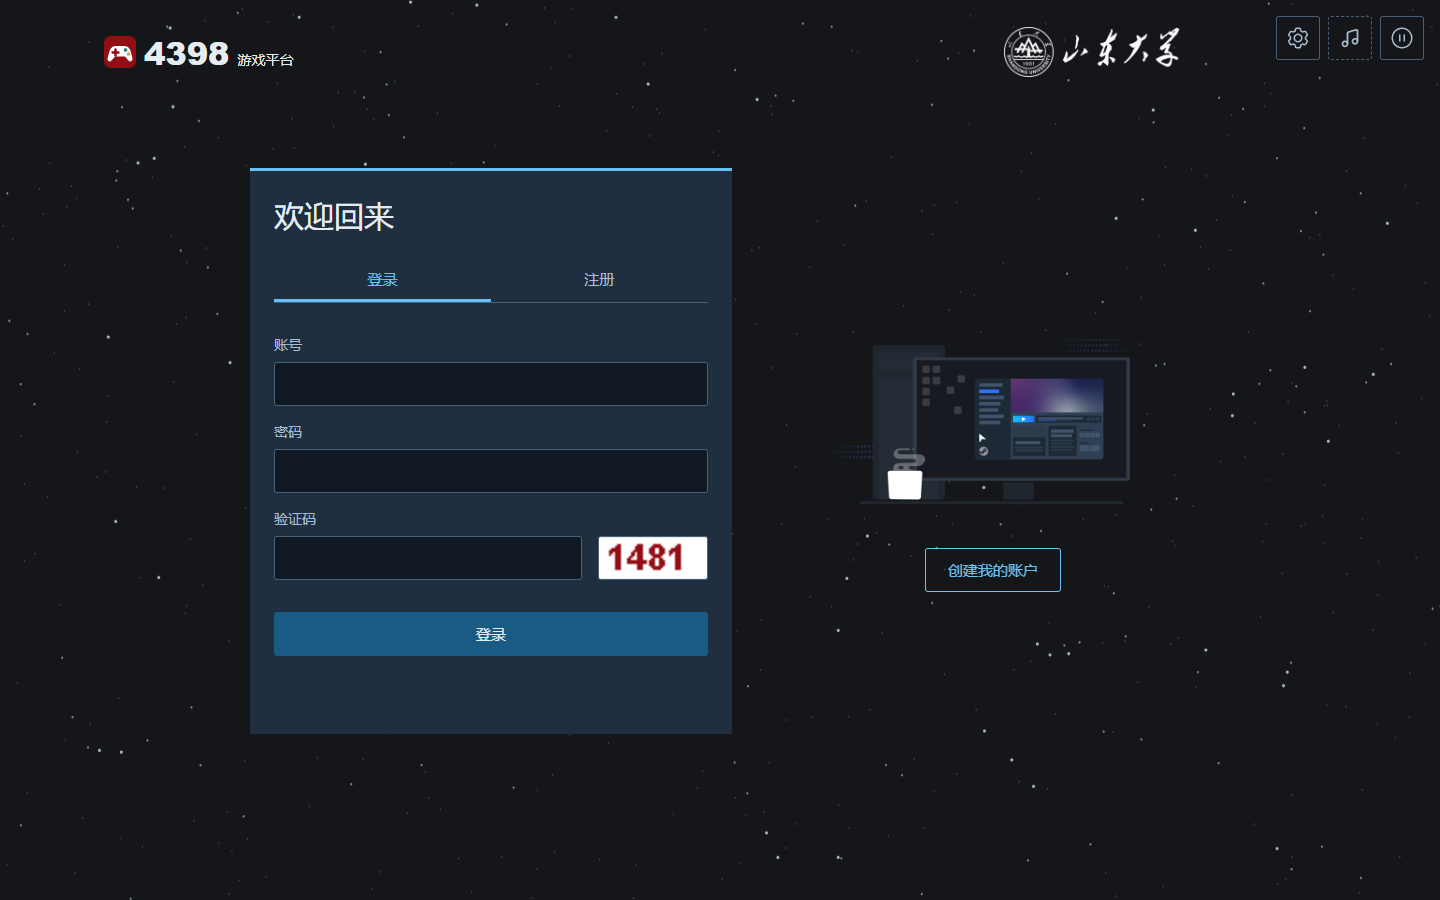
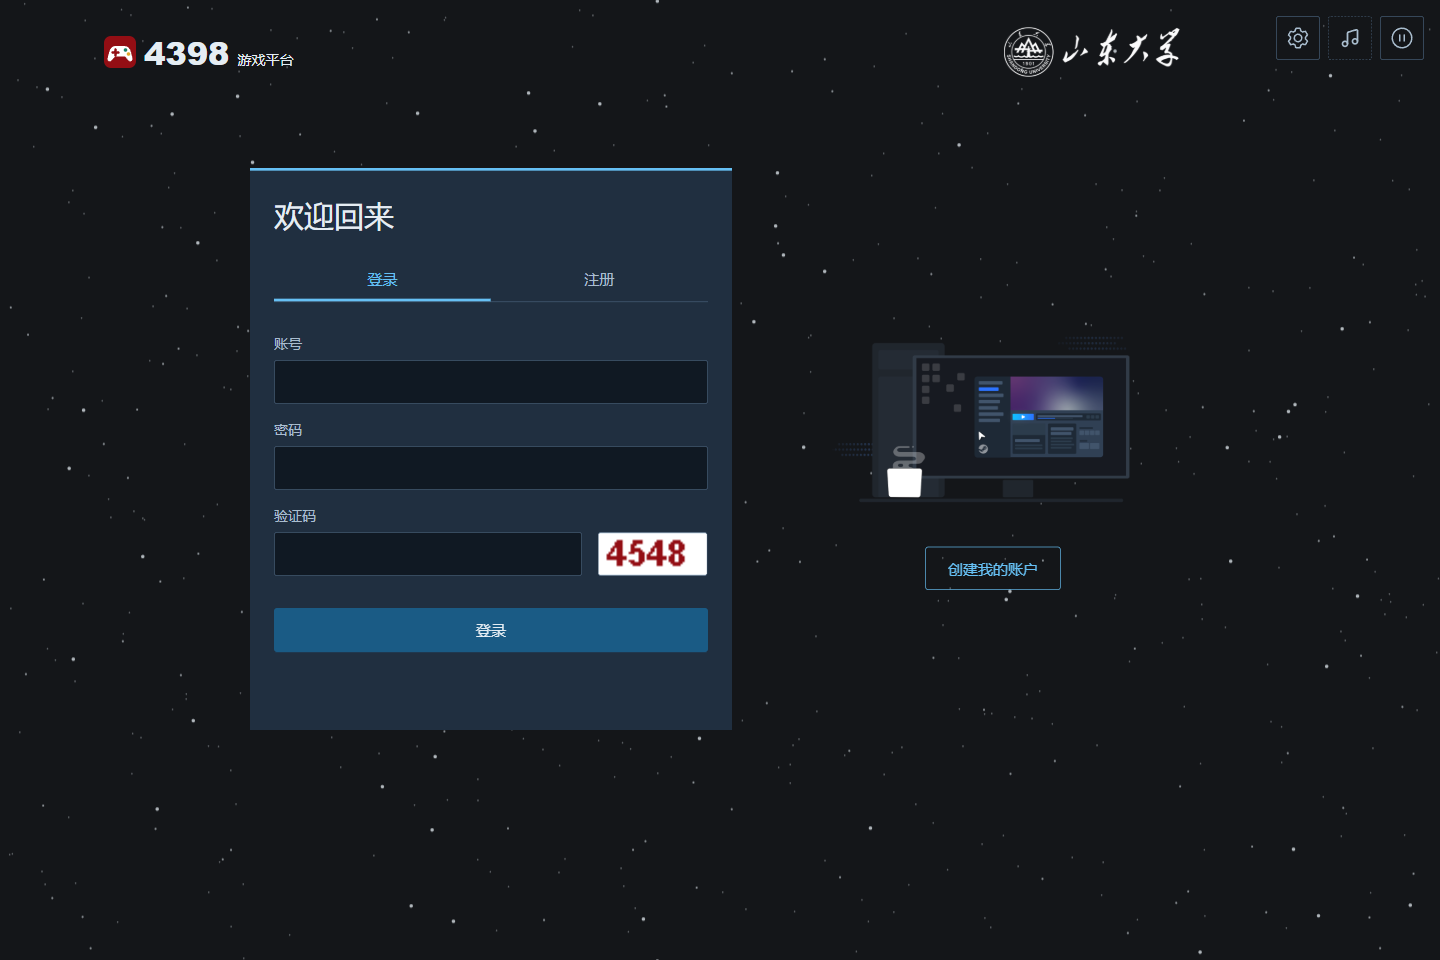
modified:   README.md 	modified:   docs/images/dashboard.png 	new file:   docs/images/editor.png 	new file:   docs/images/feedback.png 	new file:   docs/images/game.png 	new file:   docs/images/library.png 	new file:   docs/images/login-settings.png 	modified:   docs/images/login.png 	new file:   do

diff --git a/web-vue/src/styles/cursor.css b/web-vue/src/styles/cursor.css
@@ -1,0 +1,105 @@
+/* 平台与游戏运行页共用指针，画布通过自身交互状态切换形状 */
+html,
+body {
+  cursor: var(--cursor-default);
+}
+button,
+a[href],
+summary,
+select,
+label[for],
+label:has(input[type="checkbox"]),
+label:has(input[type="radio"]),
+input[type="button"],
+input[type="submit"],
+input[type="reset"],
+input[type="checkbox"],
+input[type="radio"],
+input[type="range"],
+[role="button"],
+[role="link"],
+[role="tab"],
+[role="menuitem"] {
+  cursor: var(--cursor-link);
+}
+input:not([type="button"]):not([type="submit"]):not([type="reset"]):not(
+    [type="checkbox"]
+  ):not([type="radio"]):not([type="range"]),
+textarea,
+[contenteditable="true"] {
+  cursor: text;
+}
+/* 组件自身声明的指针在弹窗挂到页面根部后仍沿用平台主题 */
+.el-button,
+.el-message-box__headerbtn,
+.el-message__closeBtn,
+.el-notification__closeBtn {
+  cursor: var(--cursor-link) !important;
+}
+/* 图表和 Java 运行环境会直接写入行内样式，按原交互类型映射主题指针 */
+[style*="cursor: default"],
+[style*="cursor:default"],
+[style*="cursor: auto"],
+[style*="cursor:auto"] {
+  cursor: var(--cursor-default) !important;
+}
+[style*="cursor: pointer"],
+[style*="cursor:pointer"] {
+  cursor: var(--cursor-link) !important;
+}
+/* 禁用控件和内部图标共用禁用提示，鼠标停在图标上时状态保持一致 */
+button:disabled,
+input:disabled,
+select:disabled,
+textarea:disabled,
+[aria-disabled="true"],
+.el-button.is-disabled,
+button:disabled *,
+[aria-disabled="true"] *,
+.el-button.is-disabled * {
+  cursor: not-allowed !important;
+}
+/* 滑块把手使用点击手形，轨道和把手沿用同一操作提示 */
+input[type="range"]::-webkit-slider-thumb {
+  cursor: var(--cursor-link);
+}
+input[type="range"]::-moz-range-thumb {
+  cursor: var(--cursor-link);
+}
+input[type="range"]:disabled::-webkit-slider-thumb {
+  cursor: not-allowed;
+}
+input[type="range"]:disabled::-moz-range-thumb {
+  cursor: not-allowed;
+}
+/* 浏览器绘制滚动条时同步指针，轨道和把手用主题颜色区分 */
+::-webkit-scrollbar {
+  width: var(--scrollbar-size);
+  height: var(--scrollbar-size);
+  cursor: var(--cursor-default);
+}
+::-webkit-scrollbar-track,
+::-webkit-scrollbar-corner {
+  background: var(--color-header);
+  cursor: var(--cursor-default);
+}
+::-webkit-scrollbar-thumb {
+  border: 2px solid var(--color-header);
+  border-radius: var(--radius-control);
+  background: var(--color-rule);
+  cursor: var(--cursor-link);
+}
+::-webkit-scrollbar-thumb:hover,
+::-webkit-scrollbar-thumb:active {
+  background: var(--color-accent);
+}
+::-webkit-scrollbar-button {
+  display: none;
+}
+/* 使用标准滚动条接口的浏览器按自身交互规则呈现相同配色 */
+@supports not selector(::-webkit-scrollbar) {
+  * {
+    scrollbar-width: thin;
+    scrollbar-color: var(--color-rule) var(--color-header);
+  }
+}

diff --git a/web-vue/src/styles/platform.css b/web-vue/src/styles/platform.css
@@ -2,7 +2,6 @@
 
 html,
 body {
-  cursor: var(--cursor-default);
   margin: 0;
   overflow-x: clip;
 }
@@ -42,27 +41,11 @@ a {
   -webkit-tap-highlight-color: var(--color-clear);
 }
 button {
-  cursor: var(--cursor-link);
   white-space: nowrap;
   width: max-content;
   max-width: 100%;
   flex-shrink: 0;
   box-sizing: border-box;
-}
-/* 可点击控件沿用手形，编辑区域继续提供文字输入提示 */
-a[href],
-summary,
-select,
-label[for],
-input[type="checkbox"],
-input[type="radio"],
-input[type="range"] {
-  cursor: var(--cursor-link);
-}
-input:not([type="checkbox"]):not([type="radio"]):not([type="range"]),
-textarea,
-[contenteditable="true"] {
-  cursor: text;
 }
 select,
 option,
@@ -77,13 +60,6 @@ select {
 }
 button:disabled {
   opacity: 0.55;
-}
-button:disabled,
-input:disabled,
-select:disabled,
-textarea:disabled,
-[aria-disabled="true"] {
-  cursor: not-allowed;
 }
 a {
   color: var(--color-accent);

diff --git a/web-vue/public/games/platform-tokens.css b/web-vue/public/games/platform-tokens.css
@@ -1,4 +1,9 @@
 :root {
+  /* 指针图片与点击热点共用配置，图片加载期间使用系统指针 */
+  --cursor-default: url("/cursors/arrow.svg") 4 3, default;
+  --cursor-link: url("/cursors/hand.svg") 12 3, pointer;
+  /* 横向和纵向滚动条共用宽度，单位为像素 */
+  --scrollbar-size: 10px;
   /* 登录背景和工作区内容区共用底色 */
   --color-workspace-background: #141619;
   --color-paper: #1b2838;
@@ -34,6 +39,14 @@
   --dur-dialog: 220ms;
   --dur-reduced: 100ms;
   --ease-out: cubic-bezier(0.16, 1, 0.3, 1);
+}
+
+/* 系统高对比度模式使用系统指针，配合用户的可访问性设置 */
+@media (forced-colors: active) {
+  :root {
+    --cursor-default: default;
+    --cursor-link: pointer;
+  }
 }
 
 /* 工作区参考 anzhiyu 的中性深色界面，登录页沿用原有配色 */

diff --git a/web-vue/games/runtime/web/java-player.css b/web-vue/games/runtime/web/java-player.css
@@ -42,7 +42,6 @@ textarea,
 }
 button {
   font: inherit;
-  cursor: pointer;
   color: var(--color-ink);
   background: var(--color-paper-3);
   border: 1px solid var(--color-rule);
@@ -77,6 +76,15 @@ button {
 #java-display > #cheerpjDisplay {
   position: absolute;
   box-shadow: none;
+}
+/* Java 画布使用平台箭头，运行时设置的编辑和拖动指针按原状态显示 */
+#java-display canvas,
+#java-display .cjWindow {
+  cursor: var(--cursor-default);
+}
+#java-display .cjControls,
+#java-display .cjControls * {
+  cursor: var(--cursor-link);
 }
 #java-display .cjWindow {
   border-radius: var(--player-window-radius);

diff --git a/web-vue/public/games/java-player.css b/web-vue/public/games/java-player.css
@@ -42,7 +42,6 @@ textarea,
 }
 button {
   font: inherit;
-  cursor: pointer;
   color: var(--color-ink);
   background: var(--color-paper-3);
   border: 1px solid var(--color-rule);
@@ -77,6 +76,15 @@ button {
 #java-display > #cheerpjDisplay {
   position: absolute;
   box-shadow: none;
+}
+/* Java 画布使用平台箭头，运行时设置的编辑和拖动指针按原状态显示 */
+#java-display canvas,
+#java-display .cjWindow {
+  cursor: var(--cursor-default);
+}
+#java-display .cjControls,
+#java-display .cjControls * {
+  cursor: var(--cursor-link);
 }
 #java-display .cjWindow {
   border-radius: var(--player-window-radius);

diff --git a/web-vue/src/styles/tokens.css b/web-vue/src/styles/tokens.css
@@ -2,6 +2,8 @@
   /* 指针图片与点击热点共用配置，图片加载期间使用系统指针 */
   --cursor-default: url("/cursors/arrow.svg") 4 3, default;
   --cursor-link: url("/cursors/hand.svg") 12 3, pointer;
+  /* 横向和纵向滚动条共用宽度，单位为像素 */
+  --scrollbar-size: 10px;
   /* 登录背景和工作区内容区共用底色 */
   --color-workspace-background: #141619;
   --color-paper: #1b2838;

diff --git a/web-vue/games/runtime/web/java-player.html b/web-vue/games/runtime/web/java-player.html
@@ -6,6 +6,7 @@
     <title>Java 游戏</title>
     <link rel="stylesheet" href="./platform-tokens.css" />
     <link rel="stylesheet" href="./java-player.css" />
+    <link rel="stylesheet" href="./platform-cursor.css" />
     <script defer src="https://cjrtnc.leaningtech.com/4.3/loader.js"></script>
     <script type="module" src="./java-player.js"></script>
   </head>

diff --git a/web-vue/public/games/java-player.html b/web-vue/public/games/java-player.html
@@ -6,6 +6,7 @@
     <title>Java 游戏</title>
     <link rel="stylesheet" href="./platform-tokens.css" />
     <link rel="stylesheet" href="./java-player.css" />
+    <link rel="stylesheet" href="./platform-cursor.css" />
     <script defer src="https://cjrtnc.leaningtech.com/4.3/loader.js"></script>
     <script type="module" src="./java-player.js"></script>
   </head>

diff --git a/web-vue/src/styles/home.css b/web-vue/src/styles/home.css
@@ -293,7 +293,6 @@
 .dashboard-activity-intervals label {
   position: relative;
   display: block;
-  cursor: var(--cursor-link);
 }
 .dashboard-activity-intervals input {
   position: absolute;
@@ -328,7 +327,6 @@
   overflow-y: auto;
 }
 .dashboard-chart-data summary {
-  cursor: var(--cursor-link);
   width: fit-content;
   min-height: 32px;
   align-content: center;

diff --git a/web-vue/src/main.js b/web-vue/src/main.js
@@ -23,6 +23,7 @@ import "~/styles/settings.css";
 import "~/styles/music.css";
 import "~/styles/messages.css";
 import "~/styles/motion.css";
+import "~/styles/cursor.css";
 import { revealDirective } from "./tools/motion.js";
 import { markdownDirective } from "./tools/markdown.js";
 

diff --git a/web-vue/src/styles/store.css b/web-vue/src/styles/store.css
@@ -111,12 +111,6 @@
 .store-page input {
   font: inherit;
 }
-.store-page button {
-  cursor: var(--cursor-link);
-}
-.store-page button:disabled {
-  cursor: not-allowed;
-}
 .store-page .store-refresh {
   margin-left: auto;
   display: grid;

diff --git a/web-vue/src/styles/pet.css b/web-vue/src/styles/pet.css
@@ -57,7 +57,6 @@
   border-radius: var(--radius-control);
   background: var(--color-header);
   color: var(--color-ink);
-  cursor: var(--cursor-link);
 }
 .pet-hide {
   position: absolute;
